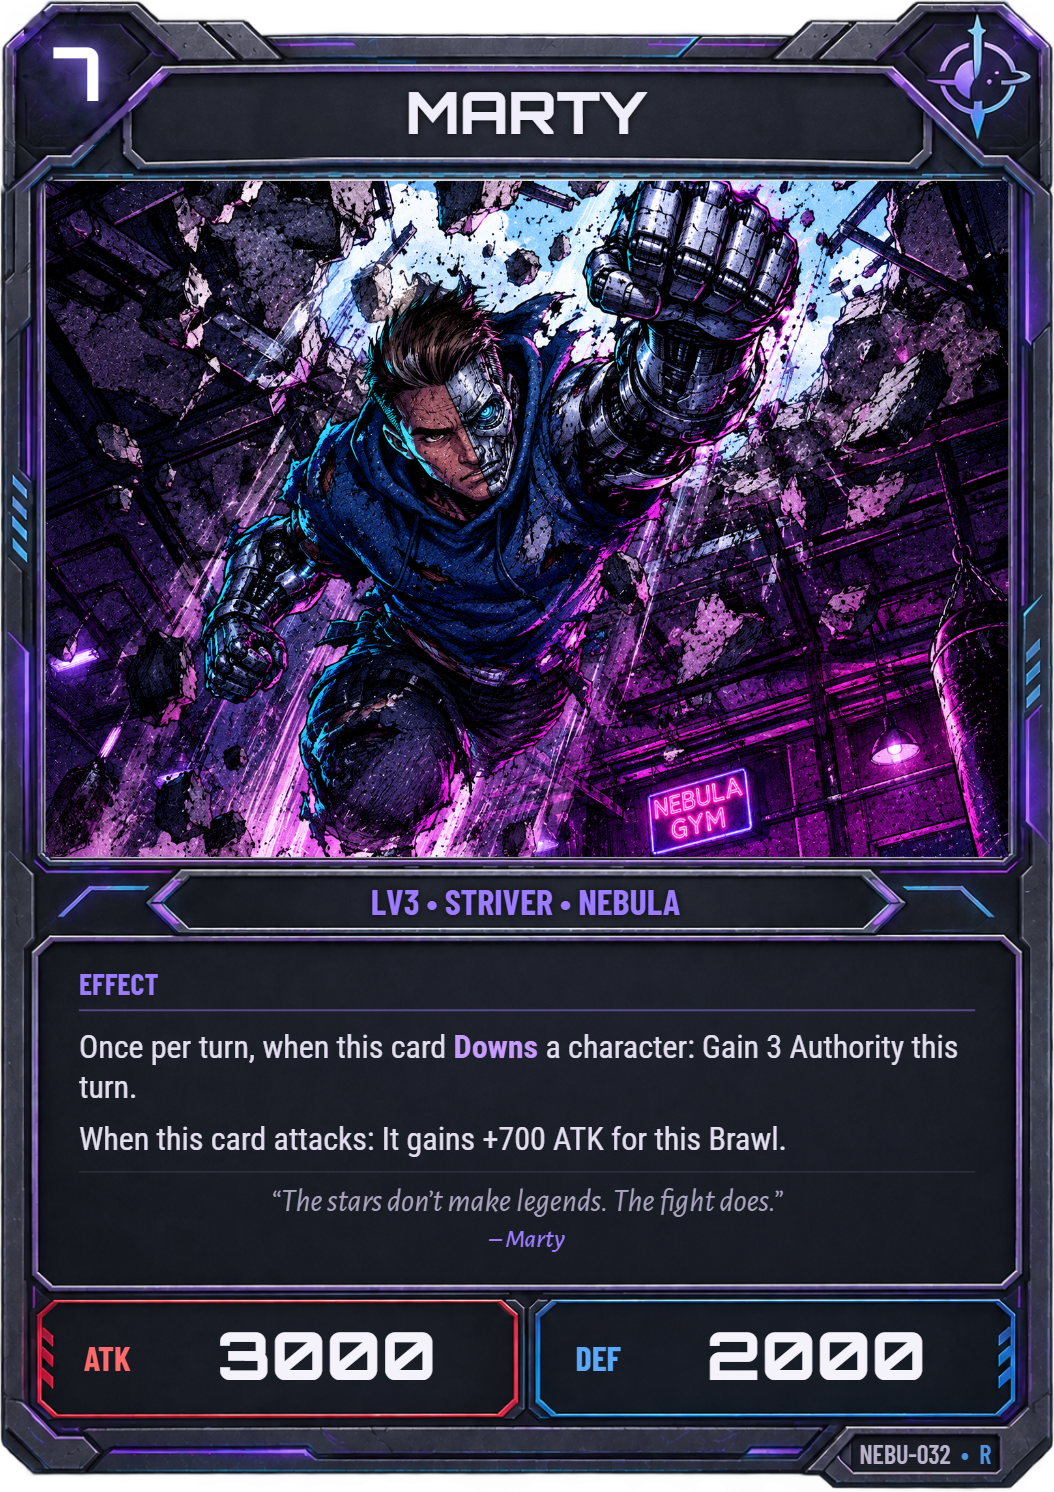
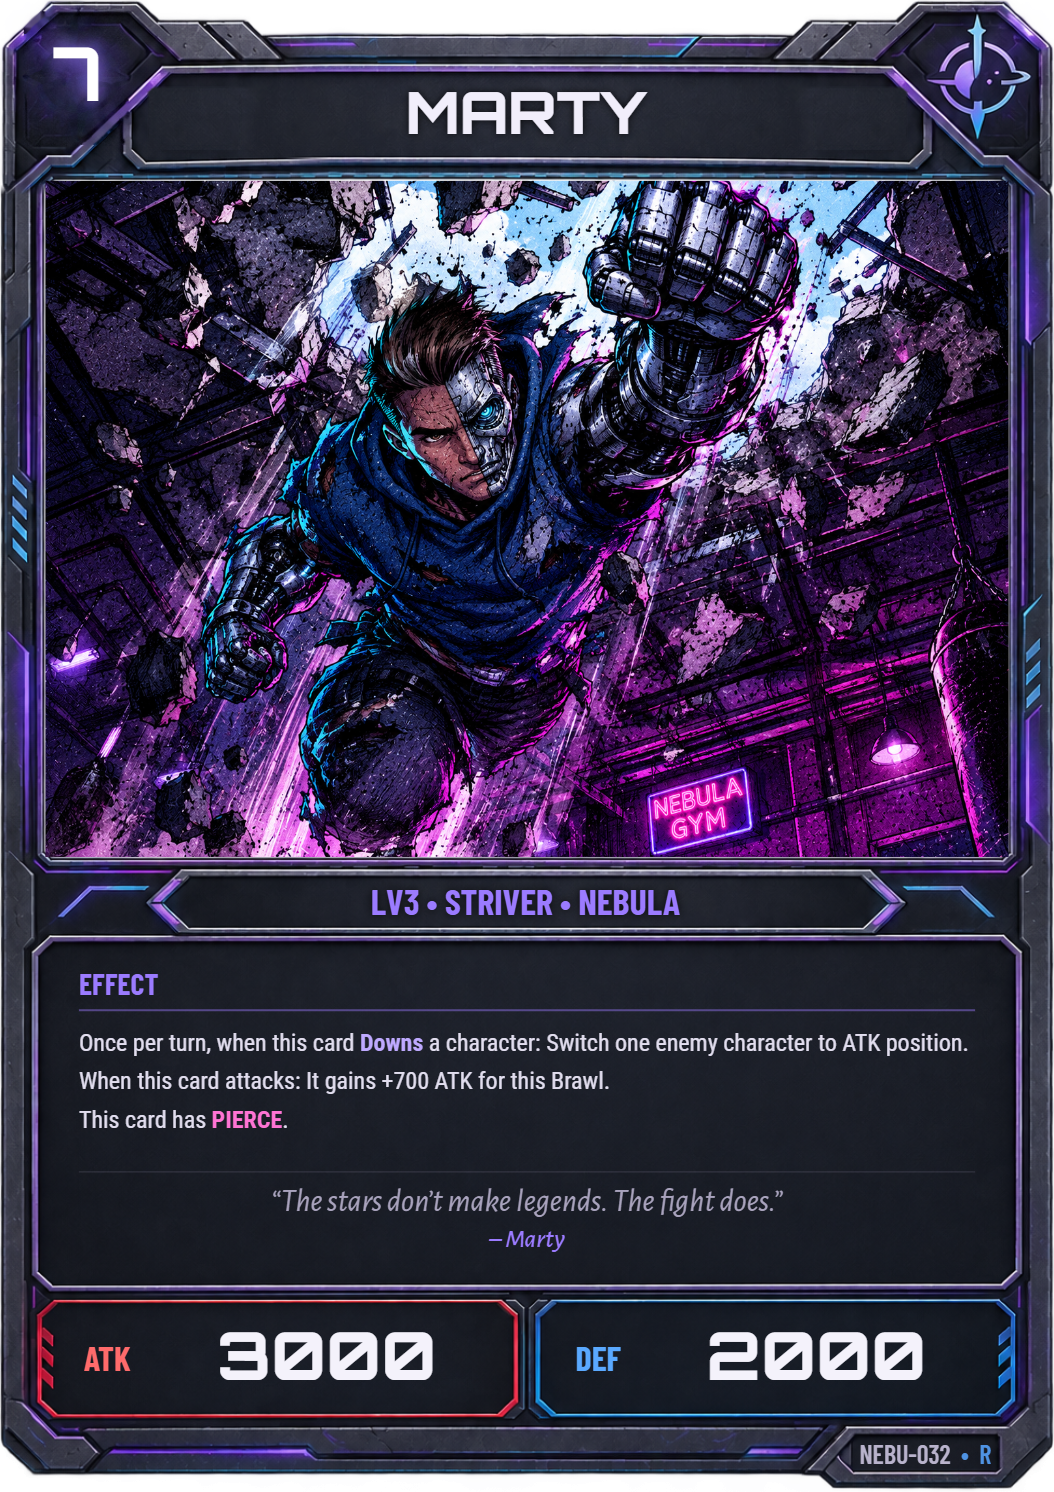
Balance (Forge): Marty LV4/LV7 switch an enemy to ATK when they Down one (was: gain Authority), Marty LV7 gains PIERCE; Dr. Orion Krell 1400 ATK (was 1100); Rouke LV7's deploy boost is once per turn

Changed region(s): [[0.0607, 0.6783, 0.9108, 0.7708]]

diff --git a/shared/cards_forge.js b/shared/cards_forge.js
@@ -768,7 +768,7 @@ export const FORGE_CARDS = {
         "art_url": "card_nebu_031",
         "code": "NEBU-031",
         "flavourText": "The stars don’t make legends. The fight does.",
-        "effectText": "After this card KOs 2 characters: PROMOTE this card.\nOnce per turn, when this card Downs a character: Gain 2 Authority this turn.",
+        "effectText": "After this card KOs 2 characters: PROMOTE this card.\nOnce per turn, when this card Downs a character: Switch one enemy character to ATK position.",
         "effects": [
             {
                 "when": "ko",
@@ -777,8 +777,8 @@ export const FORGE_CARDS = {
             },
             {
                 "when": "down",
-                "do": "authority",
-                "amount": 2,
+                "do": "force_atk",
+                "target": "enemy",
                 "once": true
             }
         ],
@@ -803,12 +803,12 @@ export const FORGE_CARDS = {
         "art_url": "card_nebu_032",
         "code": "NEBU-032",
         "flavourText": "The stars don’t make legends. The fight does.",
-        "effectText": "Once per turn, when this card Downs a character: Gain 3 Authority this turn.\nWhen this card attacks: It gains +700 ATK for this Brawl.",
+        "effectText": "Once per turn, when this card Downs a character: Switch one enemy character to ATK position.\nWhen this card attacks: It gains +700 ATK for this Brawl.\nThis card has PIERCE.",
         "effects": [
             {
                 "when": "down",
-                "do": "authority",
-                "amount": 3,
+                "do": "force_atk",
+                "target": "enemy",
                 "once": true
             },
             {
@@ -816,6 +816,10 @@ export const FORGE_CARDS = {
                 "do": "buff",
                 "target": "self",
                 "atk": 700
+            },
+            {
+                "when": "passive",
+                "do": "pierce"
             }
         ],
         "clanName": "Nebula",
@@ -989,7 +993,7 @@ export const FORGE_CARDS = {
         ],
         "clanName": "Nebula",
         "clanColor": "#9b7bff",
-        "attack": 1100,
+        "attack": 1400,
         "defense": 500,
         "level": 1,
         "subtype": "brawler",
@@ -2223,7 +2227,7 @@ export const FORGE_CARDS = {
         "art_url": "card_nebu_017",
         "code": "NEBU-017",
         "flavourText": "Built for speed. Wired for chaos.",
-        "effectText": "When you deploy another character: This card gains +1000 ATK until the end of your turn.\nWhen this card attacks: One of your other NEBULA characters that already attacked this turn may attack again.",
+        "effectText": "Once per turn, when you deploy another character: This card gains +1000 ATK until the end of your turn.\nWhen this card attacks: One of your other NEBULA characters that already attacked this turn may attack again.",
         "effects": [
             {
                 "when": "ally_deployed",
@@ -2231,6 +2235,7 @@ export const FORGE_CARDS = {
                 "target": "self",
                 "until": "turn",
                 "atk": 1000,
+                "once": true,
                 "when_clan": ""
             },
             {
